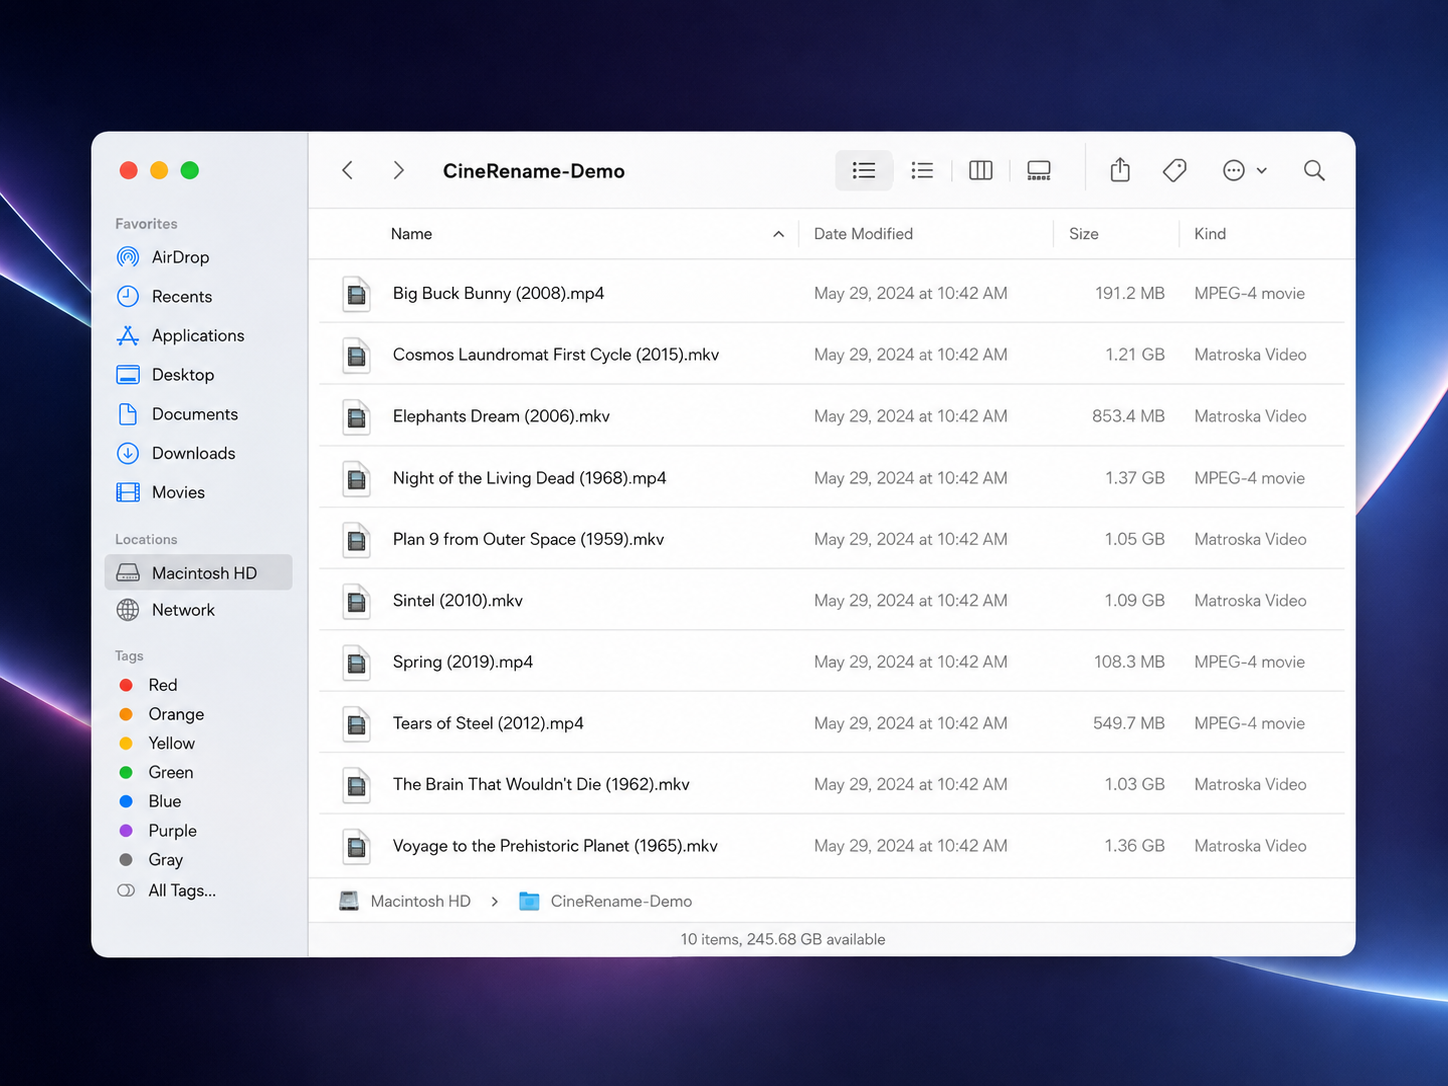
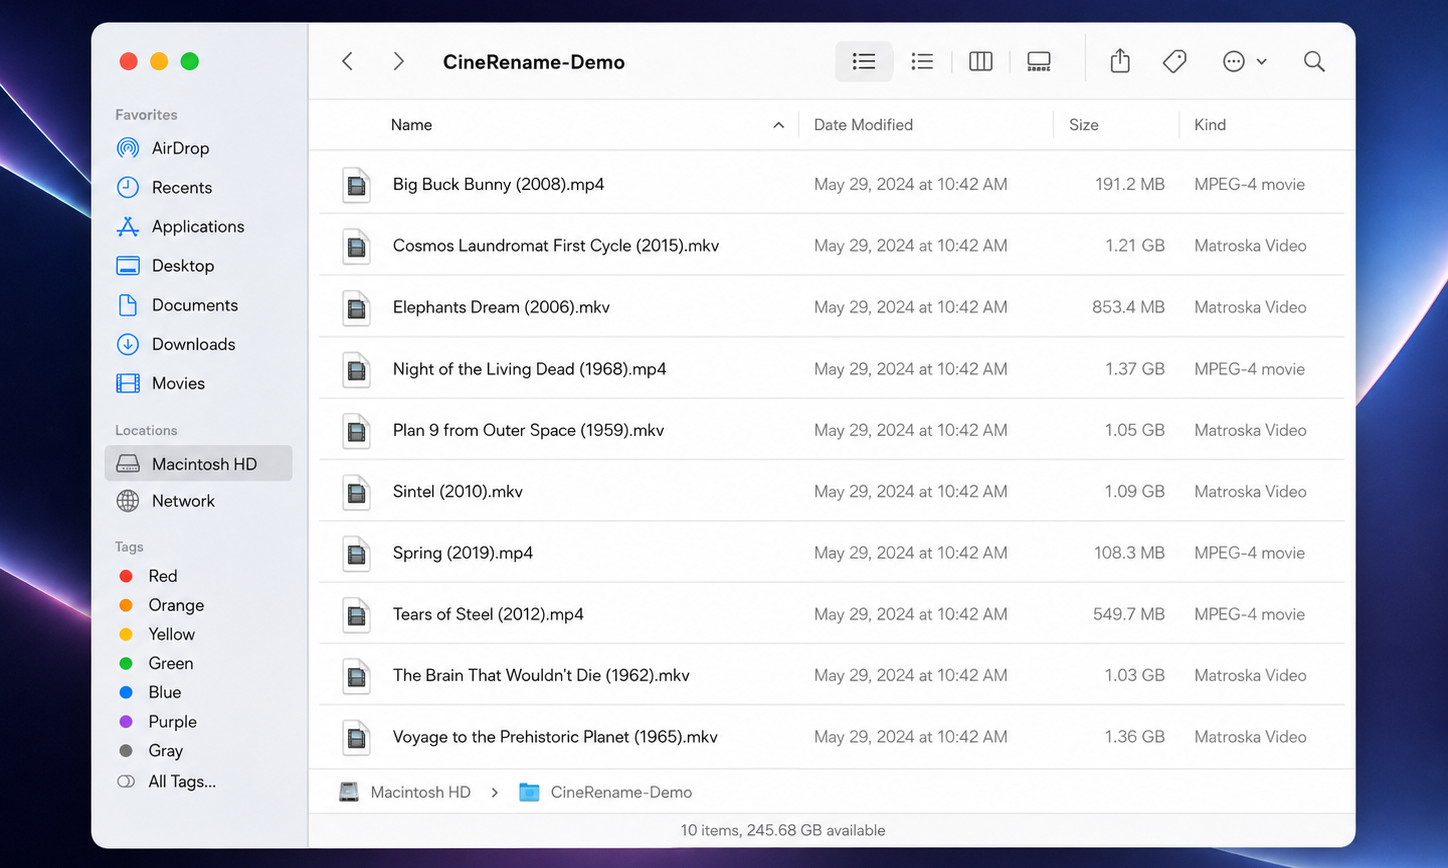
chore: Update rename-end.png, fix PostHogProvider, remove roadmap

diff --git a/app/PostHogProvider.tsx b/app/PostHogProvider.tsx
@@ -22,6 +22,10 @@ export function PostHogProvider({ children }: { children: React.ReactNode }) {
     }
   }, []);
 
+  if (!POSTHOG_KEY) {
+    return <>{children}</>;
+  }
+
   return <PHProvider client={posthog}>{children}</PHProvider>;
 }
 

diff --git a/docs/es/changelog.md b/docs/es/changelog.md
@@ -36,12 +36,3 @@ Esta página resume los cambios importantes de CineRename. Para la última versi
 - 🛠 Presets de nombrado Plex / Jellyfin / Emby / Kodi
 - 🌍 Interfaz multilingüe ES / EN / FR
 - 💻 CLI inicial: `preview`, `rename`, `organize`
-
-## Próxima hoja de ruta
-
-| Versión | Qué está planeado |
-| --- | --- |
-| **v0.6** | Empaquetado de releases y canales de actualización directa |
-| **v0.7** | Publicación en stores / package managers (Microsoft Store, Flatpak, Snap, winget, Homebrew) |
-| **v0.8** | Pulido del matching de metadatos y subtítulos |
-| **Más adelante** | Detección de múltiples ediciones (Director's Cut, Extended), soporte anime más avanzado |

diff --git a/docs/fr/changelog.md b/docs/fr/changelog.md
@@ -34,12 +34,3 @@ Cette page récapitule les changements importants de CineRename. Pour la derniè
 - 🛠 Presets de nommage Plex / Jellyfin / Emby / Kodi
 - 🌍 Interface multilingue FR / EN
 - 💻 CLI initiale : `preview`, `rename`, `organize`
-
-## Roadmap à venir
-
-| Version | Ce qui est prévu |
-| --- | --- |
-| **v0.6** | Packaging release et canaux d'auto-update directs |
-| **v0.7** | Publication stores / package managers (Microsoft Store, Flatpak, Snap, winget, Homebrew) |
-| **v0.8** | Polissage du matching métadonnées et sous-titres |
-| **Plus tard** | Détection des éditions multiples (Director's Cut, Extended), support anime plus poussé |

diff --git a/docs/changelog.md b/docs/changelog.md
@@ -34,12 +34,3 @@ This page summarizes the major changes in CineRename. For the latest release, do
 - 🛠 Naming presets for Plex / Jellyfin / Emby / Kodi
 - 🌍 Multilingual interface EN / FR
 - 💻 Initial CLI: `preview`, `rename`, `organize`
-
-## Upcoming Roadmap
-
-| Version | What's planned |
-| --- | --- |
-| **v0.6** | Release packaging and direct updater channels |
-| **v0.7** | Store / package-manager publishing (Microsoft Store, Flatpak, Snap, winget, Homebrew) |
-| **v0.8** | Metadata and subtitle matching polish |
-| **Later** | Detection of multiple editions (Director's Cut, Extended), deeper anime provider support |

diff --git a/docs/zh/changelog.md b/docs/zh/changelog.md
@@ -36,12 +36,3 @@
 - 🛠 Plex / Jellyfin / Emby / Kodi 命名预设
 - 🌍 法语 / 英语 多语言界面
 - 💻 初始 CLI 命令：`preview`, `rename`, `organize`
-
-## 未来路线图
-
-| 版本 | 计划内容 |
-| --- | --- |
-| **v0.6** | Release 打包和直接更新通道 |
-| **v0.7** | 发布到 stores / package managers（Microsoft Store、Flatpak、Snap、winget、Homebrew） |
-| **v0.8** | 元数据和字幕匹配打磨 |
-| **后续** | 检测多重版本（导演剪辑版、加长版），更深入的动漫提供商支持 |
